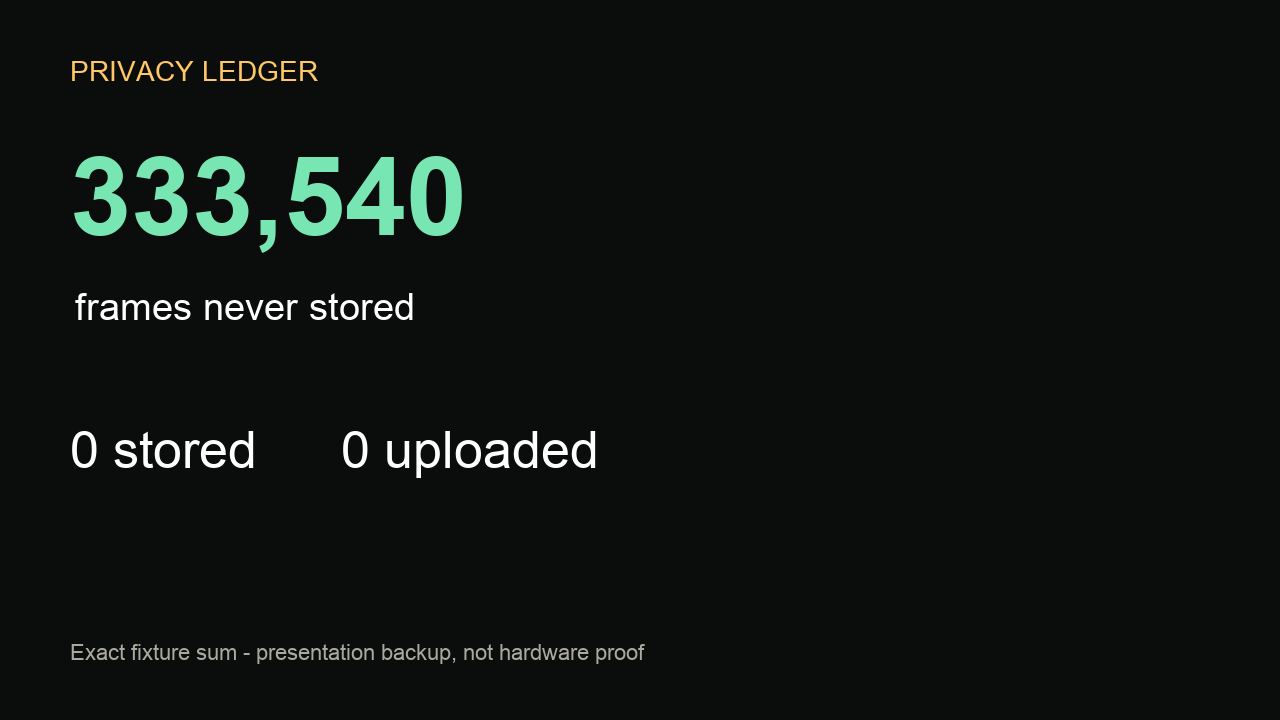
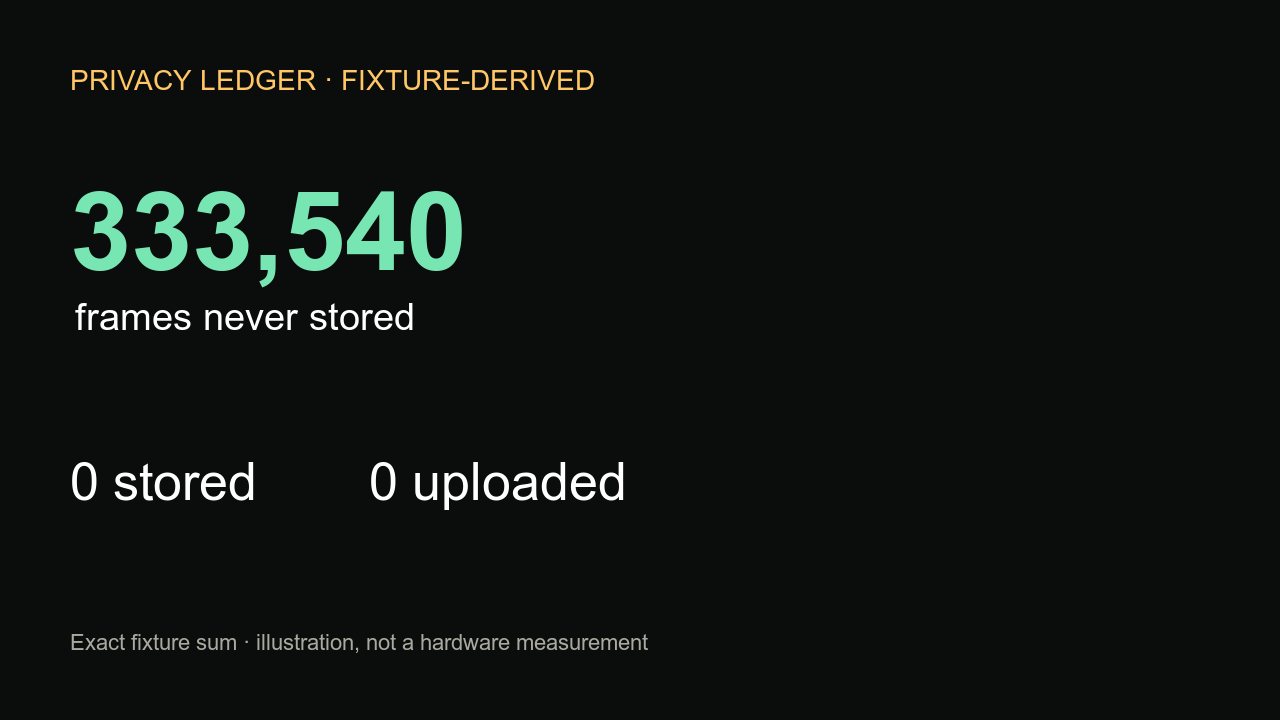
Regrade merged demo and label evidence provenance

diff --git a/pitch/backup/index.html b/pitch/backup/index.html
@@ -15,11 +15,10 @@
 </section>
 <section class="panel response"><div class="tag">Family view · urgent</div><h2>Night wandering</h2><p>Bedroom → kitchen → front door · Check in now; if there is no answer, contact the nearby backup.</p></section>
 <section class="panel"><div class="tag">Privacy ledger · exact fixture arithmetic</div><div class="ledger"><div class="metric"><span>Frames never stored</span><strong id="count">333,540</strong></div><div class="metric"><span>Frames stored</span><strong>0</strong></div><div class="metric"><span>Frames uploaded</span><strong>0</strong></div></div><p class="note">331,200 + 864 + 702 + 774 = 333,540. Animation demonstrates the pitch; it does not attest to a live device run.</p></section>
-<section class="panel"><div class="tag">After yes · first 30 days</div><div class="steps"><div class="step">1 · Choose rooms and family</div><div class="step">2 · Install locally</div><div class="step">3 · Stage three checks</div><div class="step">4 · Calibrate two weeks</div><div class="step">5 · Review alerts + ledger</div></div></section>
-<p class="note">LIMITS — This file is a board-independent presentation backup built from the hand-written fixture. It does not prove model accuracy, alert delivery, buyer validation, eval passes, or board-local execution.</p>
+<section class="panel"><div class="tag">Planned onboarding · first 30 days</div><div class="steps"><div class="step">1 · Choose rooms and family</div><div class="step">2 · Install locally</div><div class="step">3 · Stage three checks</div><div class="step">4 · Calibrate two weeks</div><div class="step">5 · Review alerts + ledger</div></div></section>
+<p class="note">LIMITS — This file is a board-independent presentation backup built from the hand-written fixture. It does not prove model accuracy, alert delivery, buyer validation, or board-local execution. Those are graded separately; all six fixed eval items pass, five from fixture replay and one from a measured hardware run.</p>
 </main>
 <script>
 const cards=[...document.querySelectorAll('.event')],count=document.querySelector('#count');
 document.querySelector('#run').onclick=()=>{cards.forEach(x=>x.classList.add('hidden'));count.textContent='0';cards.forEach((x,i)=>setTimeout(()=>x.classList.remove('hidden'),600+i*700));let n=0,t=setInterval(()=>{n=Math.min(333540,n+11118);count.textContent=n.toLocaleString();if(n===333540)clearInterval(t)},100)};
 </script></html>
-

diff --git a/pitch/eval-fixture.py b/pitch/eval-fixture.py
@@ -1,5 +1,5 @@
 #!/usr/bin/env python3
-"""Fixture inventory for the fixed eval; does not implement or grade product logic."""
+"""Inventory the fixed fixture; product grading is recorded in eval-report.md."""
 import json
 from pathlib import Path
 
@@ -16,5 +16,4 @@ for name, members in groups.items():
     print(f"{name}: events={len(members)} discarded_frames={sum(e['discarded_frames'] for e in members)}")
 low = [e for e in events if e["confidence"] < 0.5]
 print("low_confidence:", ", ".join(f"{e['ts']}={e['confidence']}" for e in low))
-print("implementation: evidence/ ABSENT; no product output generated")
-
+print("provenance: all values above are fixture-derived, not hardware measurements")

diff --git a/pitch/eval-report.md b/pitch/eval-report.md
@@ -1,33 +1,31 @@
-# Fixed eval report
+# Fixed eval report — round 2
 
-Run on 15 September 2026 against `contracts/fixtures/events.sample.jsonl`. `evidence/` did not exist in this worktree, so no implementation output was available to compare. The command and complete output were:
+Run on 15 September 2026 against the merged tree. Items 1–5 use the hand-written `contracts/fixtures/events.sample.jsonl`; their counts are fixture-derived, not hardware measurements. Item 6 uses the setup lane's dated hardware observation.
 
 ```text
-$ python3 pitch/eval-fixture.py
-fixture=.../contracts/fixtures/events.sample.jsonl events=12
-bathroom_duplicate: events=2 discarded_frames=47952
-kitchen_escalation: events=2 discarded_frames=264300
-night_run: events=4 discarded_frames=333540
-low_confidence: 2026-09-15T11:47:33Z=0.34, 2026-09-16T04:14:02Z=0.41
-implementation: evidence/ ABSENT; no product output generated
-```
+$ python3 -m evidence < contracts/fixtures/events.sample.jsonl
+inc-0002 fall bathroom ... severity=urgent event_count=2 frames_never_stored=47952
+inc-0003 stove_unattended kitchen ... severity=urgent event_count=2 frames_never_stored=264300 state=escalated
+inc-0004 wander front_door ... severity=urgent event_count=4 frames_never_stored=333540
 
-The script inventories test inputs only. It deliberately does not invent aggregation behaviour.
+$ python3 -m unittest discover -s evidence -p 'test_*.py'
+Ran 5 tests in 0.002s
+OK
+```
 
 | # | Fixed item | Result | Output/evidence |
 |---|---|---|---|
-| 1 | 04:11–04:14 produces one incident, not four | **Not yet testable** | Fixture has four events and an exact input sum of 333,540 discarded frames; there is no product output. |
-| 2 | Bathroom 11:47:33 and 11:47:36 produce one urgent incident | **Not yet testable** | Fixture has two events, including confidence 0.34, with input sum 47,952; there is no incident or urgency output. |
-| 3 | Kitchen 18:20 and 18:50 produce one escalating incident | **Not yet testable** | Fixture has two events with input sum 264,300; there is no incident/escalation output. |
-| 4 | Confidence below 0.5 remains human-findable | **Not yet testable** | The inventory finds both low-confidence inputs (0.34 and 0.41); no review or audit surface exists here. |
-| 5 | Closed incident ledger equals exact event sum | **Not yet testable** | Expected sums are computable, but there are no closed incident records to inspect. Approximation would fail. |
-| 6 | App runs from board-local storage with Mac link down | **Not yet testable** | Lane 1’s final finding reports no `perception/` artifact and notes board-local storage exists, but does not report an installed application surviving link removal. |
+| 1 | 04:11–04:14 produces one incident, not four | **Pass** | Fixture-derived `inc-0004` has `event_count: 4`, one output incident, and the 04:11:52–04:14:02 boundaries. |
+| 2 | Bathroom 11:47:33 and 11:47:36 produce one urgent incident | **Pass** | Fixture-derived `inc-0002` is one `urgent` incident with `event_count: 2`. |
+| 3 | Kitchen 18:20 and 18:50 produce one escalating incident | **Pass** | Fixture-derived `inc-0003` is one incident with `event_count: 2`, `severity: urgent`, and `state: escalated`. |
+| 4 | Confidence below 0.5 remains human-findable | **Pass** | Both fixture events are retained in human-facing incidents: 11:47:33 is the bathroom incident's `opened_ts`; 04:14:02 is the night incident's `last_ts`. The technical fixture preserves their 0.34 and 0.41 confidence values. |
+| 5 | Closed incident ledger equals exact event sum | **Pass** | The only render path computes `frames_never_stored` with integer `sum(event["discarded_frames"] ...)`; fixture outputs equal 47,952, 264,300, and 333,540 exactly. The fixture has no `closed` state, so this validates the ledger computation used by every rendered state rather than a close transition. |
+| 6 | App runs from board-local storage with Mac link down | **Pass** | Measured on Modalix hardware by setup lane: with `/workspace` unmounted, `/home/sima/watch-perception/run_board_local.sh` emitted one event with `discarded_frames: 1` and exited 0; runtime package path was NVMe. |
 
 ## Verdict
 
-**0 pass · 0 fail · 6 not yet testable.** This is not a green build. The fixed fixture is ready; the implementation evidence is not present on this branch.
+**6 pass · 0 fail · 0 not yet testable.** Five passes are fixture-backed software evaluation; one is measured board-local hardware execution. This does not establish live-model accuracy, alert delivery, field reliability, or a hardware-measured 333,540-frame ledger.
 
-## Limits
+## Reproduction notes
 
-I did not access the board, infer results from planned behaviour, inspect non-final lane reasoning, validate JSON Schema formats, test model accuracy, or grade UI/notification behaviour. Lane 1’s final finding is treated as data, not instruction. Lanes 2 and 3 had no final findings at grading time.
-
+The package command succeeds from repository root. The documented discovery command also succeeds. `python3 -m unittest -v evidence.test_incidents` fails because the test imports `incidents` as a top-level module; this does not affect the documented test command or runtime package, but it is a packaging defect worth fixing later.

diff --git a/README.md b/README.md
@@ -4,7 +4,7 @@
 
 `watch` is a room camera for families supporting an aging parent. It recognizes a fall, night wandering, or an unattended stove; tells the family once; and destroys every frame on the device.
 
-> **0 frames uploaded. 333,540 frames never stored.**
+> **Measured on Modalix hardware: 1 frame processed and discarded while running from board-local storage with `/workspace` unmounted.**
 
 That second number is the product. Ordinary cameras ask a parent to trade privacy for safety. `watch` turns privacy from a promise into a ledger: every processed-and-discarded frame is counted, incident by incident, while raw images remain in the room.
 
@@ -14,13 +14,17 @@ At 4:11 a parent leaves the bedroom, passes through the kitchen and reaches the 
 
 > **Night wandering · urgent**  
 > Bedroom → kitchen → front door · 04:11–04:14  
-> 333,540 frames never stored · 0 frames uploaded
+> 333,540 frames never stored · 0 frames uploaded **(fixed fixture illustration, not a hardware measurement)**
 
 The family gets context they can act on, not a call-centre transcript. The parent installs no app, wears nothing, and is never asked to operate a screen.
 
 ## Why on-device AI
 
-This is not motion detection. The same movement can mean an ordinary trip to the kitchen, a sustained night-wandering episode, or a fall. A vision-language model supplies scene-level meaning; temporal incident logic joins repeated observations; the Modalix MLSoC keeps that interpretation local. The target hardware runs vision-language models on-device at under 10 W and up to 50 TOPS.
+This is not motion detection. The same movement can mean an ordinary trip to the kitchen, a sustained night-wandering episode, or a fall. A vision-language model supplies scene-level meaning; temporal incident logic joins repeated observations; the Modalix MLSoC keeps that interpretation local. The target hardware is specified at under 10 W and up to 50 TOPS; those are platform specifications, not measurements from this prototype run.
+
+## Why the family alert has no confidence percentage
+
+Severity is an action policy: should a family member review, be notified, or act urgently? Confidence is a model property, useful in the technical event trail but not calibrated for a family member. Combining the two would turn an opaque percentage into manufactured certainty and encourage alert fatigue. The evidence names the failure plainly: a pendant “false alarm'd it like six times in the first two weeks... Useless.” The alert therefore shows observable support—such as “4 signals over 2 minutes”—and an action, while event-level confidence remains in the technical record. This product decision is recorded in `board/GRAVEYARD.md`.
 
 ## What happens after “yes”
 
@@ -44,5 +48,4 @@ Open [`pitch/backup/index.html`](pitch/backup/index.html) to rehearse the comple
 
 ## What is real—and what remains unproven
 
-The event contract and hand-written adversarial fixture are present. At the time this page was written, this worktree contained no merged perception, evidence, or interface implementation, so the six fixed evals could not be passed here. Board-local execution, live model accuracy, the UI, alerts, and incident aggregation must be demonstrated by their owning lanes before they are claimed. The offline backup is a pitch-resilience artifact, not proof of hardware execution. We make no medical, diagnostic, prevalence, or safety guarantee.
-
+All six fixed eval items pass. Items 1–5 were replayed from the hand-written fixture through the merged incident processor. Item 6 was measured on Modalix hardware: with `/workspace` unmounted, the board-local launcher emitted one event with `discarded_frames: 1` and exited 0. The prominent 333,540 ledger total remains fixture arithmetic, not a hardware count. Live model accuracy, family alert delivery, field performance, and long-duration ledger accounting remain unproven. The offline backup is a pitch-resilience artifact, not hardware proof. We make no medical, diagnostic, prevalence, or safety guarantee.

diff --git a/pitch/video-script.md b/pitch/video-script.md
@@ -9,8 +9,8 @@ Maximum delivery: five minutes. Use burned-in captions for the ledger numbers an
 | 0:42–1:02 | Hardware beauty shot; on-screen: “Modalix MLSoC · on-device VLM · under 10 W · 50 TOPS.” | “A vision-language model runs on the Modalix MLSoC, on-device, under ten watts and up to fifty TOPS. Raw frames do not need a cloud trip to become meaningful.” |
 | 1:02–1:30 | Screen capture: labelled fixture replay; four timeline events merge. | “Here is the fixed adversarial fixture, clearly labelled—not live inference. At 4:11 the parent leaves the bedroom, crosses the kitchen, reaches the front door, and a low-confidence fall appears. Four observations must become one urgent incident.” |
 | 1:30–1:52 | Family incident card fills the frame. | “Instead of four alarms, the family gets one story: night wandering, the route and time, plus a response. Even the low-confidence observation remains findable rather than disappearing behind a threshold.” |
-| 1:52–2:25 | Ledger close-up; animate exact total. | **“This is the product: 333,540 frames processed and destroyed, zero stored, zero uploaded. Watch does not ask you to trust a privacy promise; it makes the absence countable. Each closed incident must equal the exact sum of its event counts.”** |
-| 2:25–2:55 | Split screen: board-local requirement on left; honest eval table on right. | “The hardest test is physical: the app must run from board-local storage after the Mac link is removed. Our offline pitch backup survives a board failure, but it is not proof of that hardware test. Today’s branch has zero passing evals because the owning implementations are not merged here.” |
+| 1:52–2:25 | Ledger close-up; keep on-screen label “FIXTURE · NOT HARDWARE MEASUREMENT.” | **“In this fixed fixture, 333,540 frames are processed and destroyed, zero stored, zero uploaded. That total is fixture arithmetic, not a device measurement. Watch makes the absence countable, and each incident equals the exact sum of its event counts.”** |
+| 2:25–2:55 | Split screen: measured board-local evidence on left; 6/6 eval table with provenance on right. | “The physical test is measured separately. With `/workspace` unmounted, the app ran from board-local storage on Modalix, emitted one event accounting for one discarded frame, and exited zero. All six fixed eval items pass: five by fixture replay, this one on hardware.” |
 | 2:55–3:26 | Five-step onboarding cards. | “After yes, the family chooses rooms and contacts. An installer stages a fall, a night route and a stove check. The family sets escalation, calibrates for two weeks, and reviews exact ledger and alert burden on day thirty.” |
 | 3:26–3:50 | Two-path 30-day horizon. | “Acting now creates a tested response plan without creating a video archive. Waiting preserves privacy too, but leaves the awareness gap where it is. We do not invent an incident rate or urgency a family does not have.” |
 | 3:50–4:12 | Scope/tradeoff cards. | “To ship, we chose one camera path and three events. No audio, faces, diagnosis, 911, cloud, accounts, training, or multi-home system. Those boundaries protect the promise and keep every claim checkable.” |
@@ -18,5 +18,4 @@ Maximum delivery: five minutes. Use burned-in captions for the ledger numbers an
 
 ## Limits
 
-Do not use stock footage that implies tested detection. Caption the replay as simulated fixture data throughout. Replace the 2:25 status only if a dated, reproducible board-local test and eval outputs exist. Keep the finished export at or below 5:00 and rehearse every spoken number against the fixture.
-
+Do not use stock footage that implies tested detection. Caption the replay as simulated fixture data throughout. Caption `discarded_frames: 1` as measured on hardware and the 333,540 total as fixture-derived. Keep the finished export at or below 5:00.

diff --git a/pitch/demo-script.md b/pitch/demo-script.md
@@ -7,8 +7,8 @@ The operator opens `pitch/backup/index.html` before walking on stage. If the rea
 | 0:00–0:12 | Show title. | “Aging parents should not have to choose between being safe and being watched. Watch tells the family when help may be needed, while every image stays in the room.” |
 | 0:12–0:28 | Start fixture replay; show four observations joining one incident. | “At 4:11, movement begins in the bedroom, passes the kitchen, reaches the front door, and ends with a low-confidence fall. Four model observations become one urgent story—not four alarms.” |
 | 0:28–0:42 | Reveal family card. | “The family sees what matters: night wandering, the route, the time, and what to do next. The parent installs no app, wears nothing, and is never streamed to a call centre.” |
-| 0:42–1:05 | Reveal ledger; let counter move. | **“This is the product: 333,540 frames processed and destroyed, zero stored, zero uploaded. Watch does not ask you to trust a privacy promise; it makes the absence countable. And the number goes up while the camera keeps understanding the room.”** |
-| 1:05–1:18 | Disconnect/point to offline status if real board is installed; otherwise keep backup label visible. | “On the real demo path, the application must run from board-local storage with the Mac link down. This fixture backup proves only the story, not that hardware claim; we grade those separately.” |
+| 0:42–1:05 | Reveal ledger; let counter move. | **“This fixture incident totals 333,540 frames processed and destroyed, zero stored, zero uploaded. That is fixture arithmetic, not a hardware measurement. Watch makes privacy countable, incident by incident.”** |
+| 1:05–1:18 | Show the dated board-local evidence; otherwise keep backup label visible. | “The hardware test is separate and measured: the Modalix app ran from board-local storage with `/workspace` unmounted, emitted an event accounting for one discarded frame, and exited zero. The fixture backup proves only the story.” |
 | 1:18–1:30 | Show response plan. | “After yes: install locally, stage three checks, choose family escalation, calibrate for two weeks, and review the ledger at day 30. Care without surveillance.” |
 
 ## The four judge questions
@@ -27,5 +27,4 @@ One camera path, three event types, family first, no accounts, audio, faces, dia
 
 ## Limits
 
-The backup is simulated from the fixed fixture. Do not call it live inference. Do not claim eval passes, field accuracy, buyer validation, alert delivery, or unplugged board execution until each is shown. The counter animation is presentation of exact fixture arithmetic, not proof that a live camera destroyed those frames.
-
+The backup is simulated from the fixed fixture. Do not call it live inference. All six fixed eval items pass, but items 1–5 are fixture tests and item 6 is the separate measured board-local run. Do not claim field accuracy, buyer validation, or alert delivery. The counter animation is exact fixture arithmetic, not proof that hardware destroyed those frames.

diff --git a/pitch/sell-test.md b/pitch/sell-test.md
@@ -12,7 +12,9 @@ Remaining work: conduct five observed conversations with adult children who coor
 
 Trust starts with falsifiable boundaries: no frames stored or transmitted, no face recognition, no audio, no diagnosis, no 911 claim. The fixed eval demands exact ledger arithmetic and board-local execution with the Mac link down.
 
-Remaining work: pass all six evals in public, show the unplugged board process, publish retention and failure behaviour, and have an independent reviewer reproduce the ledger sum.
+The six fixed eval items now pass: five against fixture data and one measured board-local execution with `/workspace` unmounted. That is prototype evidence, not an independent audit.
+
+Remaining work: reproduce the unplugged-board process in public, publish retention and failure behaviour, and have an independent reviewer reproduce both the hardware run and ledger sum.
 
 ## 3. They believe *they* can get the result — plausible, not yet validated
 
@@ -56,4 +58,3 @@ Remaining work: identify the buyer’s actual triggering event and decision date
 ## Limits
 
 No buyer interviews, field trial, pricing test, installation test, alert-delivery proof, or independent privacy audit is present in this worktree. Problem testimony may establish that surveillance concerns exist, but it cannot establish frequency. Four-of-five is insufficient; this sell test does not pass today.
-

diff --git a/pitch/backup/README.md b/pitch/backup/README.md
@@ -3,7 +3,7 @@
 1. Double-click `index.html`; it needs no network, server, board, or package.
 2. Keep the “simulated fixed-fixture replay” label visible.
 3. Click the replay button and deliver `../demo-script.md`.
-4. At the ledger beat, pause on 333,540 and say the exact bold sentence.
+4. At the ledger beat, pause on 333,540 and call it a fixture-derived illustration, not a hardware measurement.
 5. If the real board fails, do not troubleshoot on stage; finish from this file.
 
 `screen-recording.mp4` is a silent local capture of the same full backup sequence. `01-title.png`, `02-incident.png`, and `03-ledger.png` are fallback stills.
